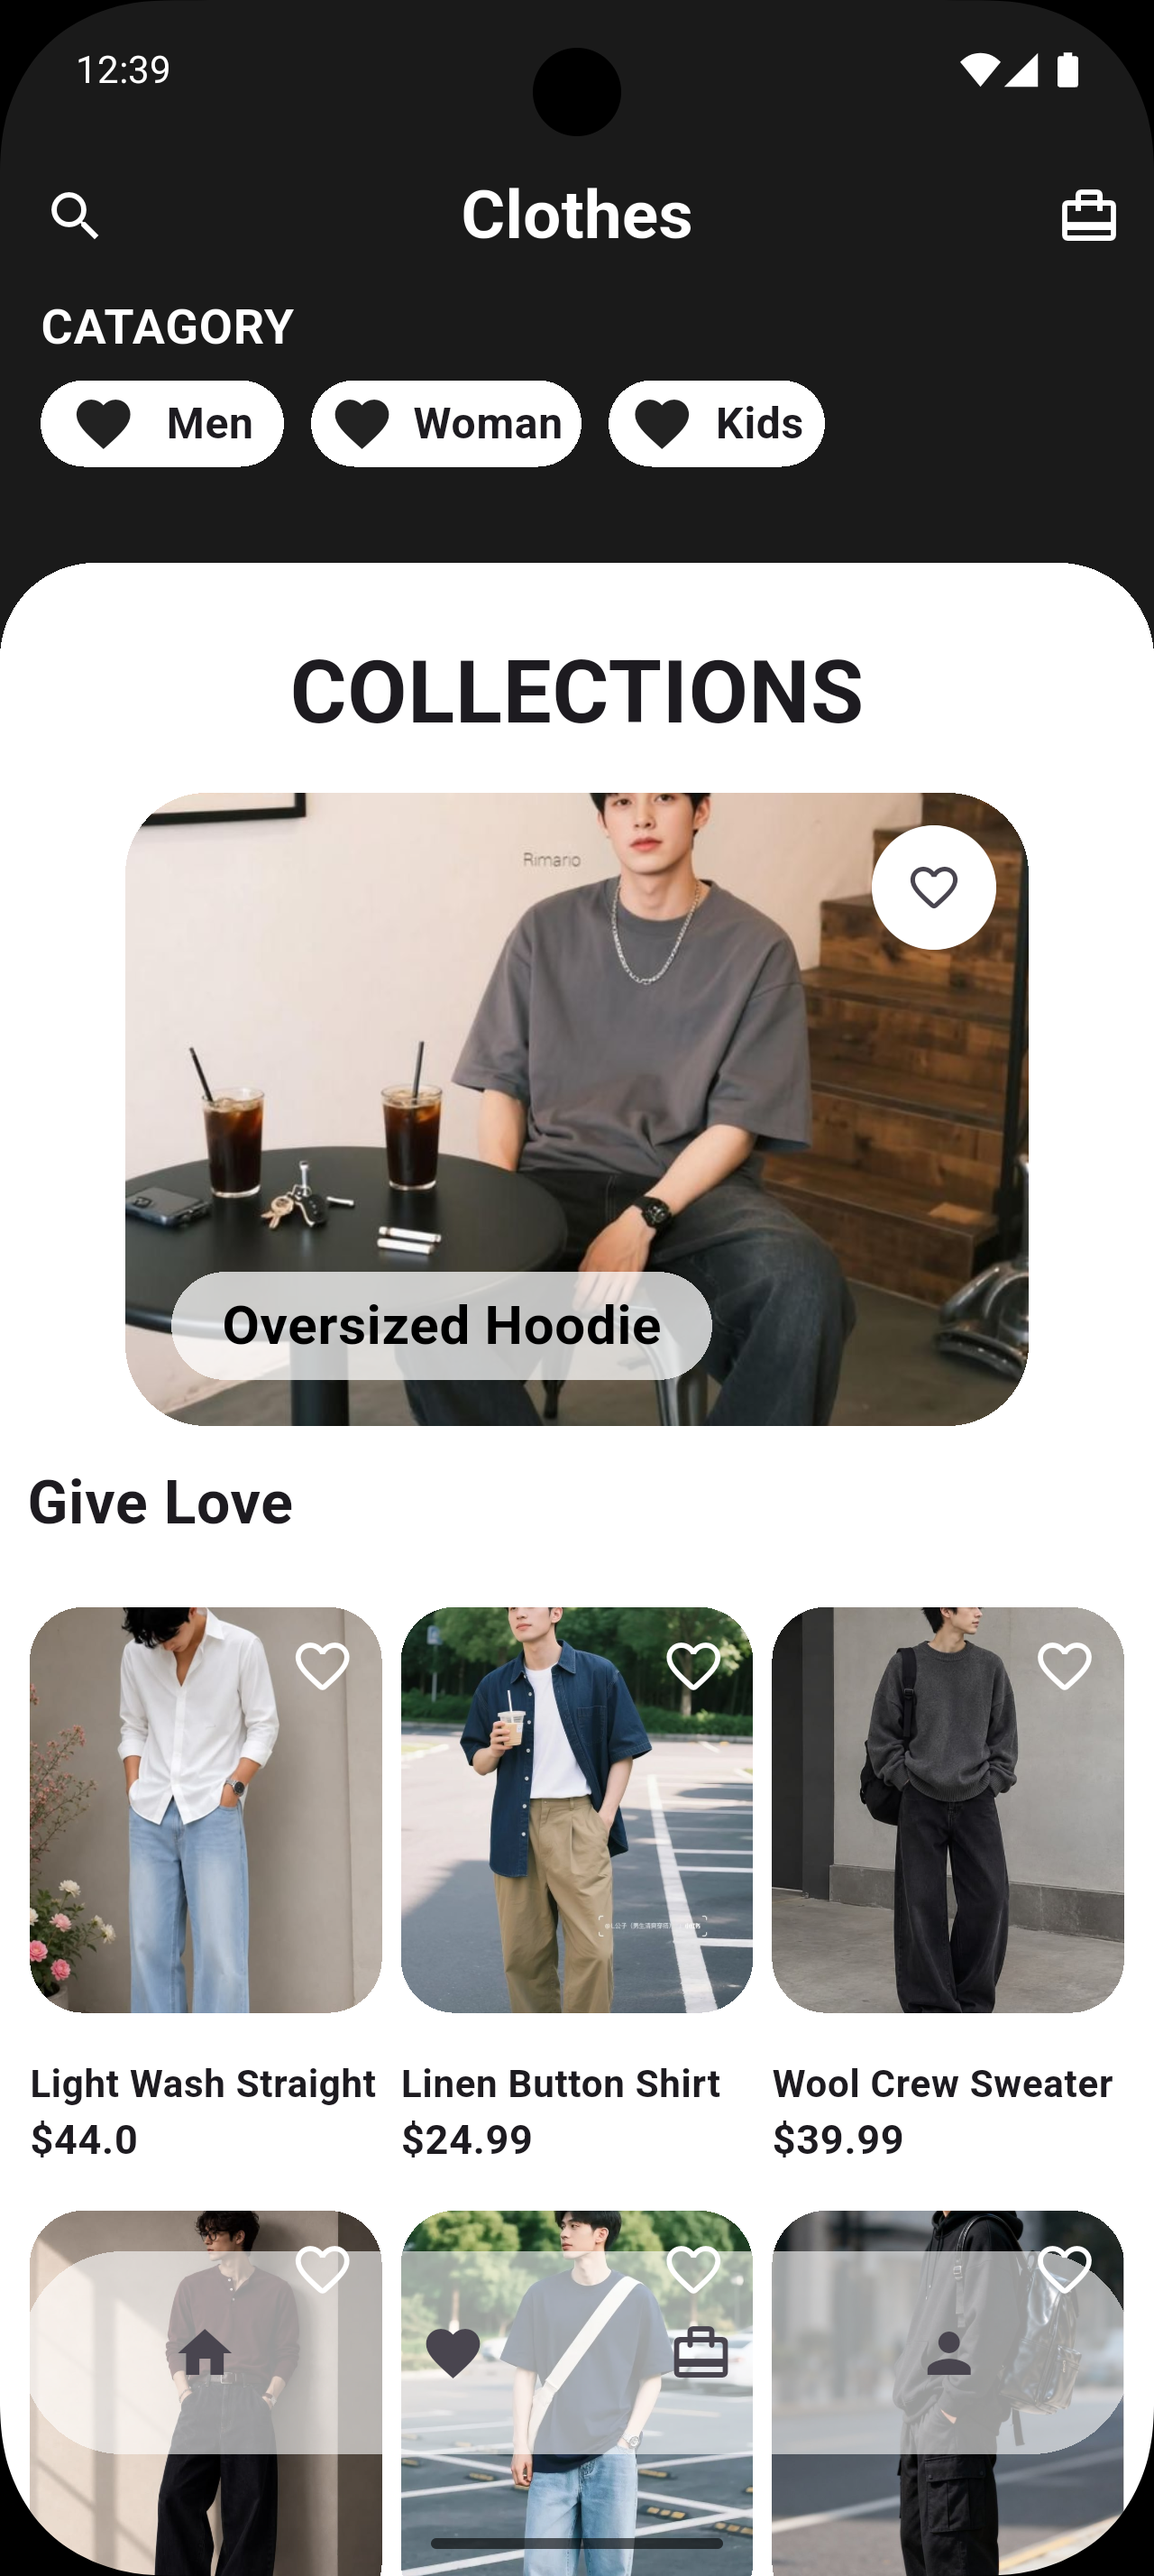
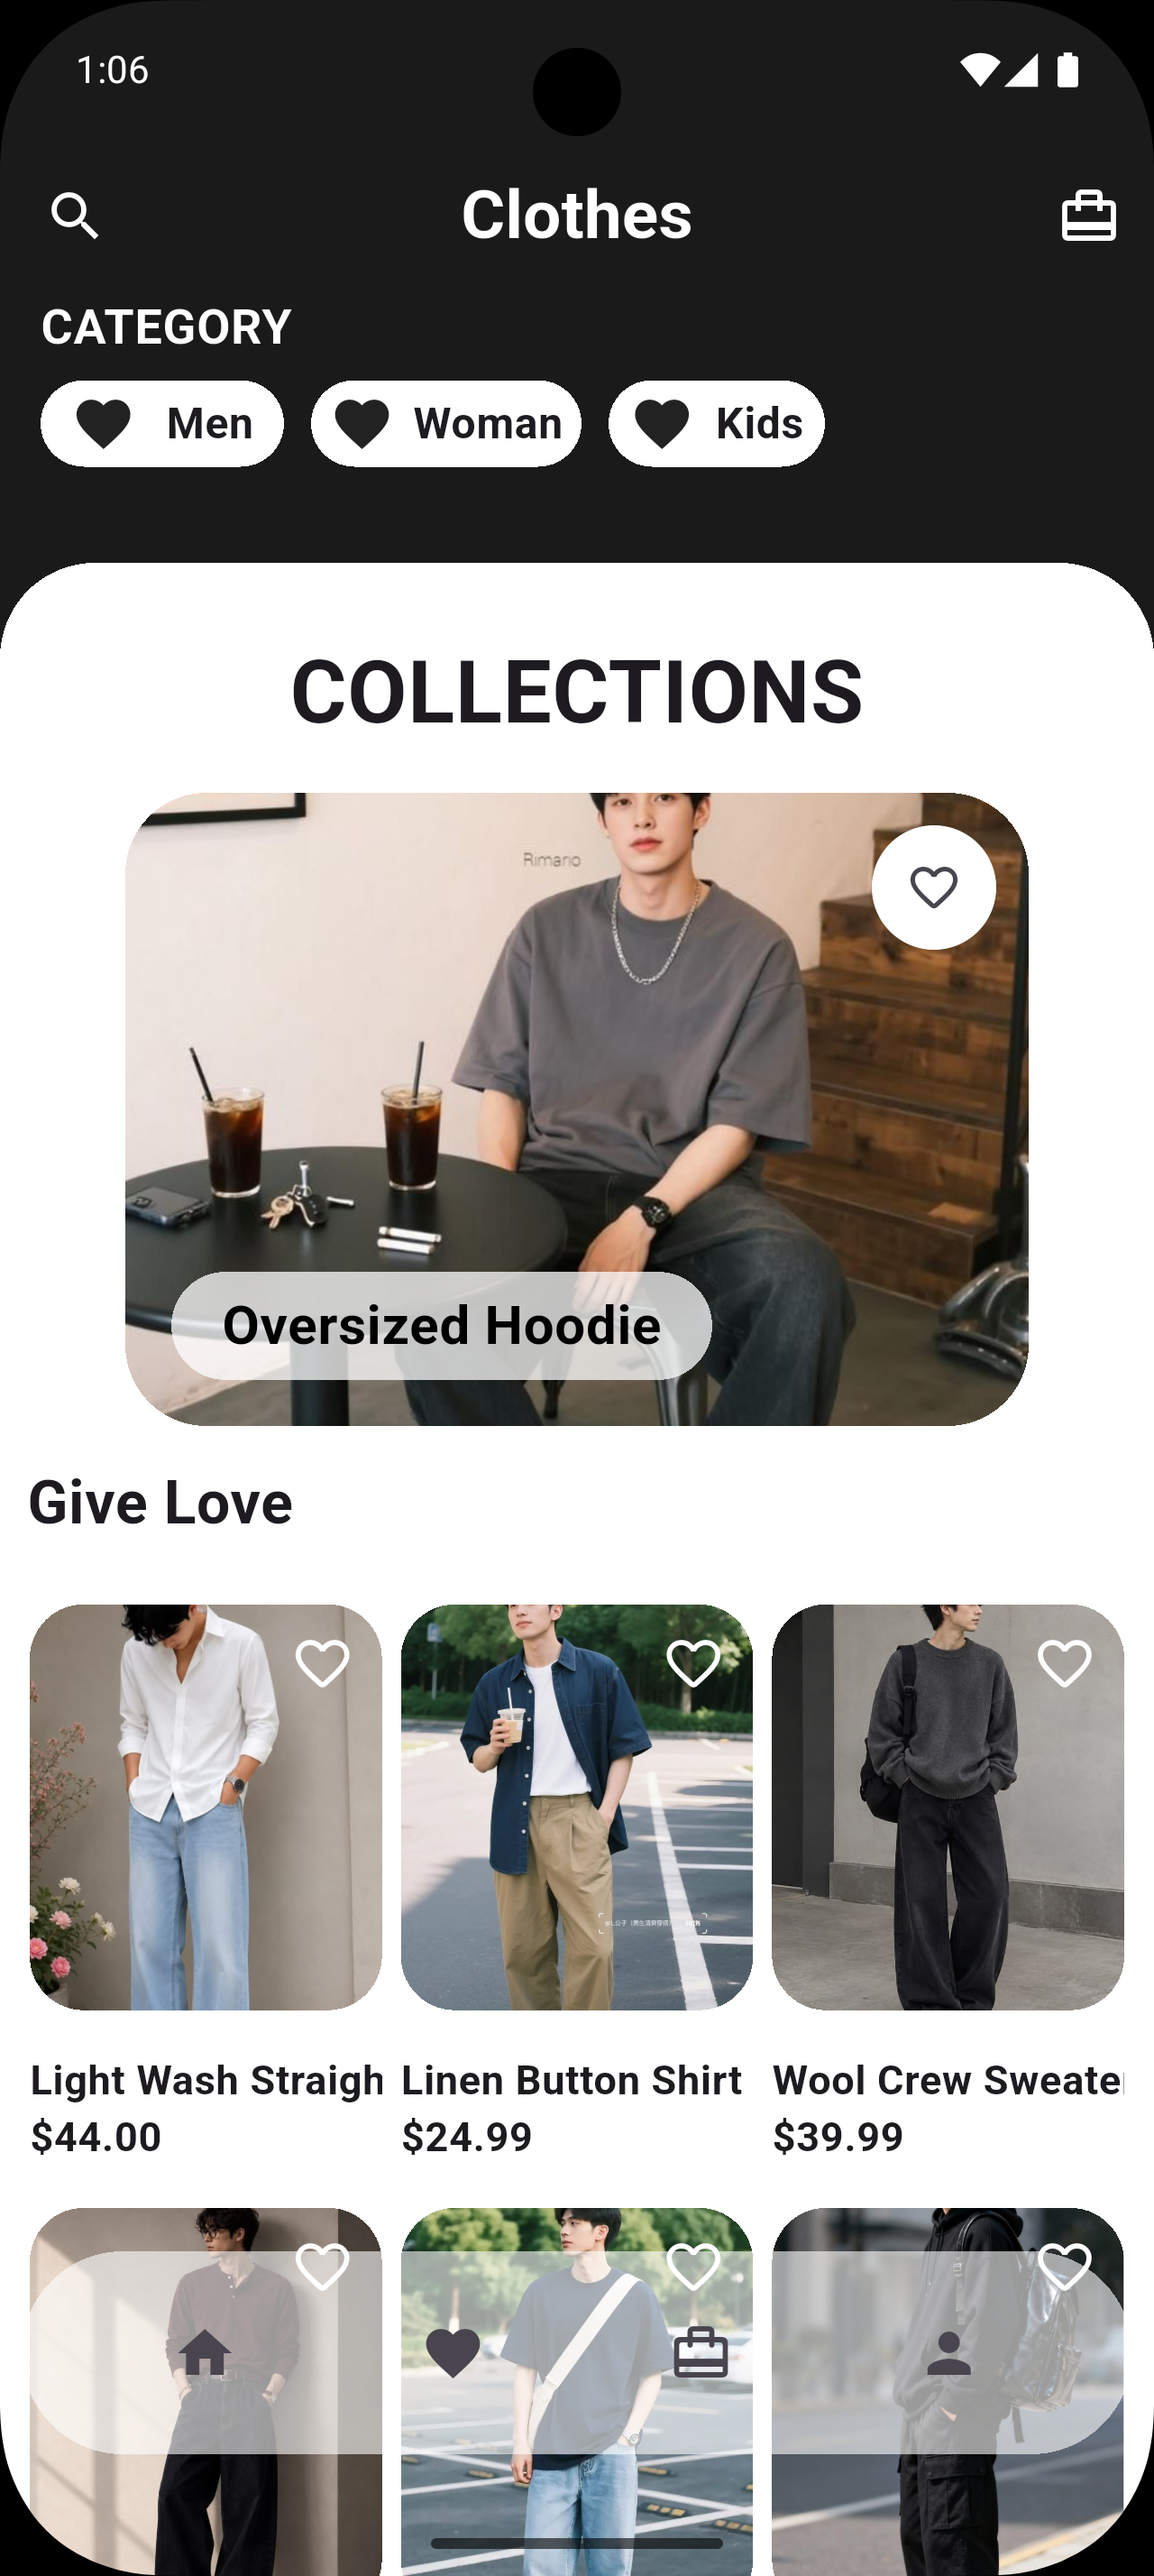
style(home): fix price format, long names and category typo

diff --git a/lib/Home/widget/small_card.dart b/lib/Home/widget/small_card.dart
@@ -60,13 +60,15 @@ class SmallCard extends StatelessWidget {
                               product.title,
                               style: const TextStyle(
                                 fontWeight: FontWeight.bold,
-                                fontSize: 14,
+                                fontSize: 15,
                               ),
+                              maxLines: 1,
+                              overflow: TextOverflow.ellipsis,
                             ),
                           ],
                         ),
                         Text(
-                          "\$${product.price.toString()}",
+                          "\$${product.price.toStringAsFixed(2)}",
                           style: const TextStyle(
                             fontWeight: FontWeight.bold,
                             fontSize: 15,

diff --git a/lib/Home/home_screen.dart b/lib/Home/home_screen.dart
@@ -59,7 +59,7 @@ class HomeScreen extends StatelessWidget {
                     crossAxisAlignment: CrossAxisAlignment.start,
                     children: [
                       const Text(
-                        "CATAGORY",
+                        "CATEGORY",
                         style: TextStyle(
                           color: Colors.white,
                           fontSize: 18,
